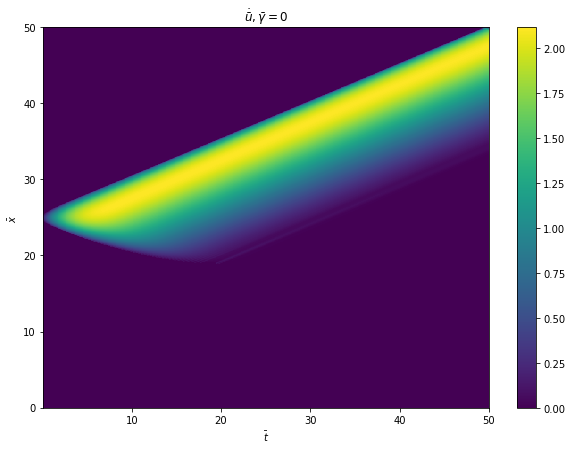
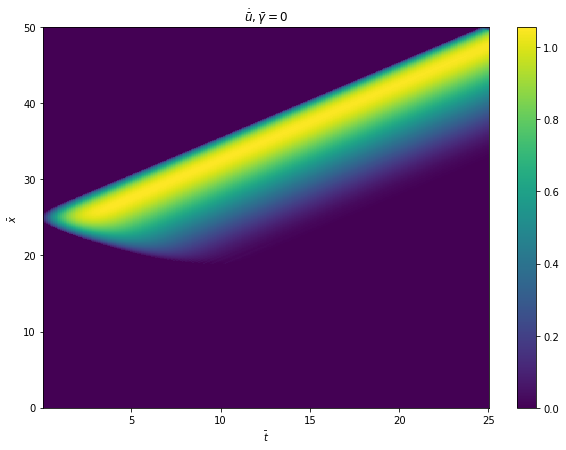
.

diff --git a/_posts/2021-05-25-new-paper-on-slip-pulses.md b/_posts/2021-05-25-new-paper-on-slip-pulses.md
@@ -106,13 +106,13 @@ plt.show()
 
 ```python
 # Run the same simulation with gamma = 0
-data = run.run_continuum(x = np.linspace(0,100,1000),
+data = run.run_continuum(x = x,
                          tau = tau,
                          tau_minus = tau+2,
                          dt = 1e-3,
                          output_interval = 100,
                          gamma = 0,
-                         tmax = 50,
+                         tmax = 25,
                          beta = 0.01)
 ```
 
@@ -128,6 +128,7 @@ plt.colorbar()
 
 plt.show()
 ```
+
 
 
 

diff --git a/index.md b/index.md
@@ -3,10 +3,11 @@ layout: default
 title: Home
 ---
 
+# Hello
+
 I'll post things from my research here every now and then
 
 :coffee:
-
 
 <hr/>
 <dl>
